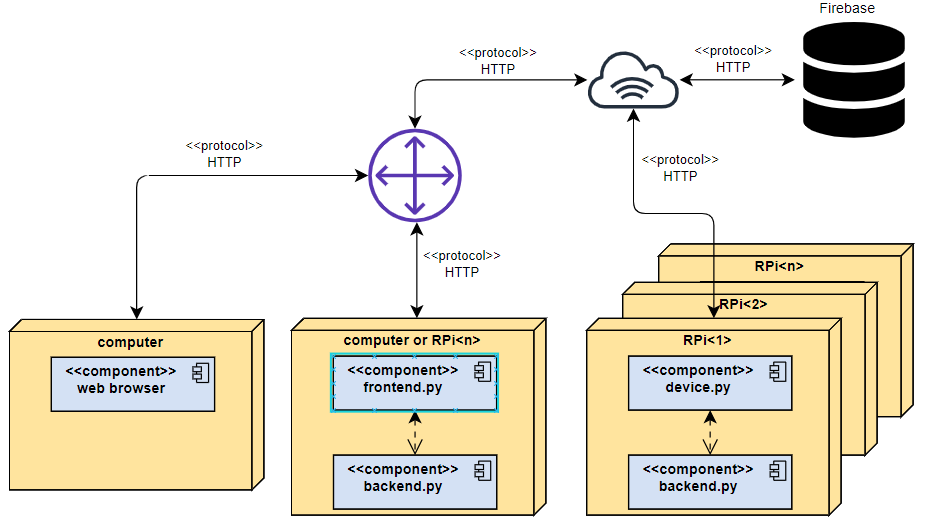
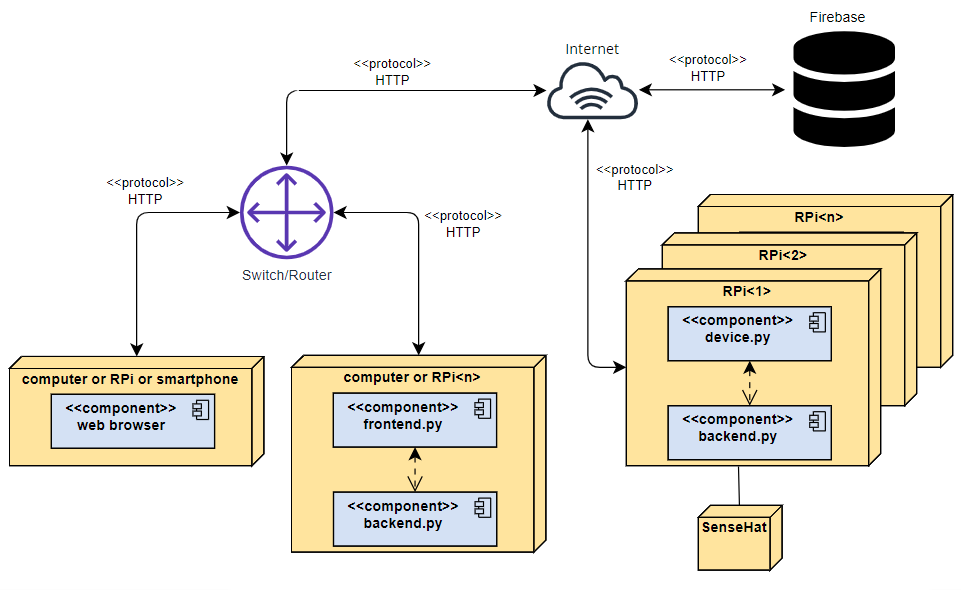
docs: updated README and deployment diagram

diff --git a/README.md b/README.md
@@ -5,10 +5,22 @@ This repository was created for Lab4 of SYSC3010 course from Carleton University
 It allows ```users``` to remotely set the LED colors from the sense hat attached to a ```device``` (RPi).
 
 
-## Deployment diagram
+## Technical information
+### Deployment diagram
 <p align="center" width="100%">
    <img src="https://github.com/roger-selzler/SYSC3010Lab4/blob/main/images/deployment_diagram.png" width="80%" margin-left="auto" margin-right="auto">
 </p>
+
+### DB Schema
+
+<p align="center" width="100%">
+   <img src="https://github.com/roger-selzler/SYSC3010Lab4/blob/main/images/db_schema_sample.png" width="60%" margin-left="auto" margin-right="auto">
+</p>
+
+### Sequence diagram
+
+**TODO**
+
 
 ## The scripts
 ### The [backend.py](backend.py)
